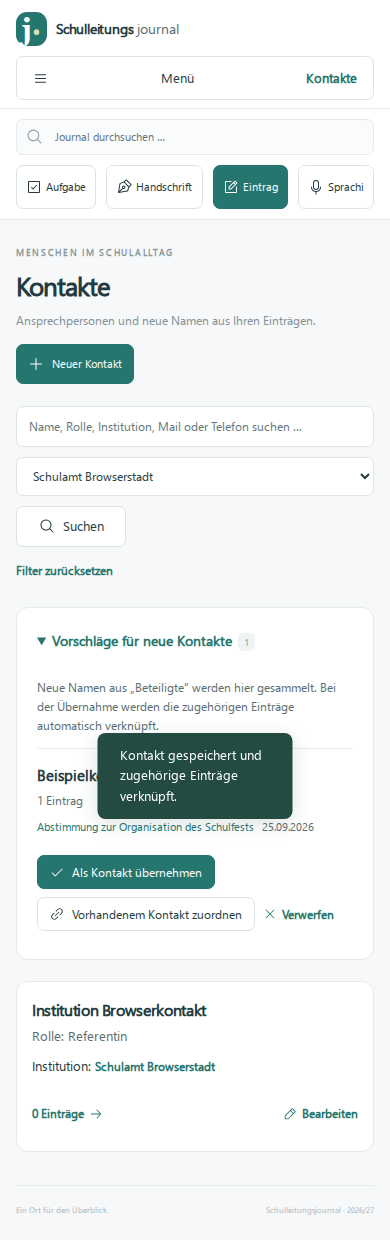
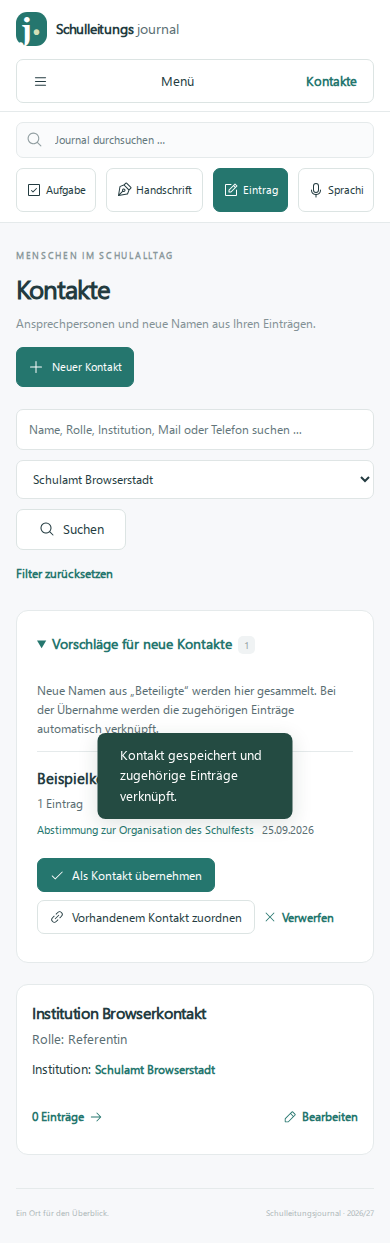
Seitenleiste: Umschalter als kleines Symbol neben dem Namenszug
Die volle Zeile „Seitenleiste einklappen" sah wie ein verirrter
Navigationspunkt aus. Der Umschalter ist jetzt ein icon-button oben
rechts im Kopfbereich – dieselbe Formensprache wie „Abmelden" unten.
Eingeklappt rückt er unter das Signet.

diff --git a/journal/static/style.css b/journal/static/style.css
@@ -493,11 +493,10 @@ svg.mail-direction{width:15px;height:15px;margin-top:2px;flex:none;color:var(--m
 /* Seitenleiste: eigener Bildlauf, damit auf flachen Bildschirmen (Tablet quer)
    nichts unten abgeschnitten wird – und ein Zustand, in dem nur Symbole stehen. */
 .sidebar{overflow-y:auto;overscroll-behavior:contain;scrollbar-width:thin;padding-bottom:14px}
-.sidebar-toggle{display:flex;align-items:center;gap:13px;width:100%;margin:0 0 12px;padding:9px 13px;
-  border:0;background:var(--paper);border-radius:7px;color:#65767a;font-size:12px;font-weight:500;text-align:left;
-  position:sticky;top:0;z-index:2}
-.sidebar-toggle:hover{background:#f4f7f6;color:var(--teal)}
-.sidebar-toggle .icon{width:22px;height:22px;flex:none}
+.sidebar-head{display:flex;align-items:center;gap:8px;margin:0 4px 30px}
+.sidebar-head .brand{margin:0;min-width:0}
+.sidebar-toggle{flex:none;margin-left:auto;color:#9aa8ab}
+.sidebar-toggle .icon{width:19px;height:19px}
 
 body.sidebar-collapsed .sidebar{width:72px;padding-left:10px;padding-right:10px}
 body.sidebar-collapsed .workspace{margin-left:72px}
@@ -509,10 +508,10 @@ body.sidebar-collapsed .profile>div{display:none}
 body.sidebar-collapsed .sidebar .nav-label,
 body.sidebar-collapsed .brand>span:last-child{position:absolute;width:1px;height:1px;
   margin:-1px;padding:0;overflow:hidden;clip:rect(0,0,0,0);white-space:nowrap;border:0}
-body.sidebar-collapsed .brand{margin:0 0 22px;justify-content:center}
+body.sidebar-collapsed .sidebar-head{flex-direction:column;gap:12px;margin:0 0 20px}
+body.sidebar-collapsed .sidebar-toggle{margin:0}
 body.sidebar-collapsed .sidebar nav a,
-body.sidebar-collapsed .sidebar-bottom>a,
-body.sidebar-collapsed .sidebar-toggle{justify-content:center;gap:0;padding:10px 0;position:relative}
+body.sidebar-collapsed .sidebar-bottom>a{justify-content:center;gap:0;padding:10px 0;position:relative}
 body.sidebar-collapsed .sidebar nav .count{position:absolute;top:1px;right:4px;margin:0;font-size:9px;padding:0 4px}
 body.sidebar-collapsed .profile{justify-content:center;gap:7px}
 body.sidebar-collapsed .profile form{margin:0}
@@ -522,6 +521,7 @@ body.sidebar-collapsed .profile form{margin:0}
 @media(max-width:700px){
   .sidebar{overflow:visible;padding-bottom:8px}
   .sidebar-toggle{display:none}
+  .sidebar-head{margin:0 0 13px}
   body.sidebar-collapsed .sidebar{width:100%;padding:16px 16px 8px}
   body.sidebar-collapsed .workspace{margin-left:0}
   body.sidebar-collapsed .sidebar .nav-label,

diff --git a/journal/templates/base.html b/journal/templates/base.html
@@ -4,7 +4,7 @@
 <body class="{{ 'sidebar-collapsed' if request.cookies.get('sidebar')=='collapsed' }}">
 {% include 'icons.html' %}
 {% if session.get('auth') %}
-<aside class="sidebar" id="sidebar"><a class="brand" href="{{ url_for('cockpit') }}"><span class="brand-icon">j<span>·</span></span><span>Schulleitungs<span class="brand-sub">journal</span></span></a><button type="button" class="sidebar-toggle" data-sidebar-toggle aria-controls="sidebar" aria-expanded="true">{{ icon('sidebar') }}<span class="nav-label">Seitenleiste einklappen</span></button><div class="school-label">MEIN ARBEITSPLATZ <span>{{ current_year }}</span></div>
+<aside class="sidebar" id="sidebar"><div class="sidebar-head"><a class="brand" href="{{ url_for('cockpit') }}"><span class="brand-icon">j<span>·</span></span><span>Schulleitungs<span class="brand-sub">journal</span></span></a><button type="button" class="icon-button sidebar-toggle" data-sidebar-toggle aria-controls="sidebar" aria-expanded="true">{{ icon('sidebar') }}<span class="sr-only">Seitenleiste einklappen</span></button></div><div class="school-label">MEIN ARBEITSPLATZ <span>{{ current_year }}</span></div>
 <button class="button mobile-nav-toggle" type="button" aria-expanded="false" aria-controls="main-navigation">{{ icon('menu') }} Menü <span data-current-section></span></button><nav id="main-navigation" aria-label="Hauptnavigation">
 <a class="{{ 'active' if request.endpoint=='cockpit' }}" href="{{ url_for('cockpit') }}">{{ icon('cockpit','nav-icon') }}<span class="nav-label">Tagescockpit</span></a>
 <a class="{{ 'active' if request.endpoint=='entry_list' and request.args.get('inbox') }}" href="{{ url_for('entry_list',inbox=1) }}">{{ icon('inbox','nav-icon') }}<span class="nav-label">Posteingang</span> <span class="count">{{ inbox_count }}</span></a>

diff --git a/journal/static/ui.js b/journal/static/ui.js
@@ -28,7 +28,7 @@
     const anzeigen=eingeklappt=>{
       document.body.classList.toggle('sidebar-collapsed',eingeklappt);
       sidebarToggle.setAttribute('aria-expanded',String(!eingeklappt));
-      sidebarToggle.querySelector('.nav-label').textContent=
+      sidebarToggle.querySelector('span').textContent=
         eingeklappt?'Seitenleiste ausklappen':'Seitenleiste einklappen';
       // Eingeklappt bleibt nur das Symbol übrig; der Titel nennt das Ziel beim
       // Zeigen. Ausgeklappt steht die Beschriftung daneben und der Titel stört.
